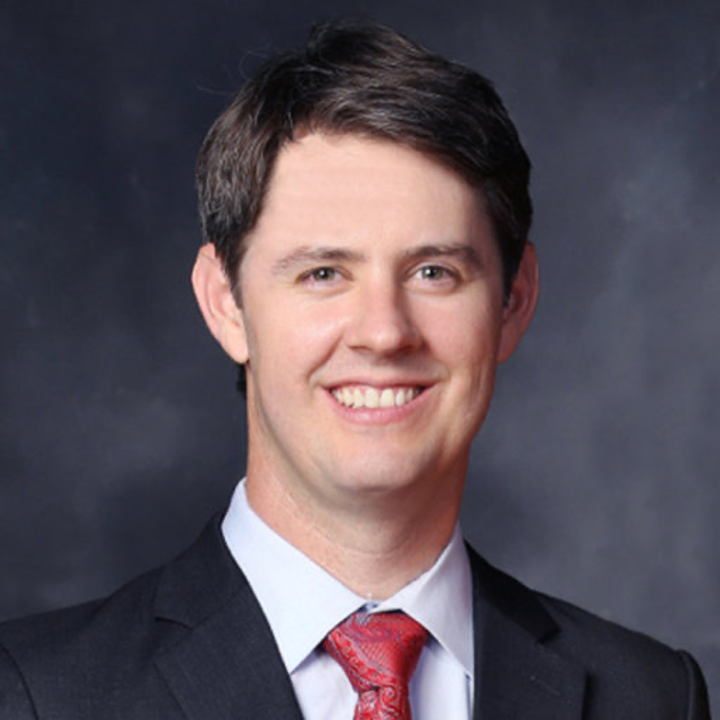
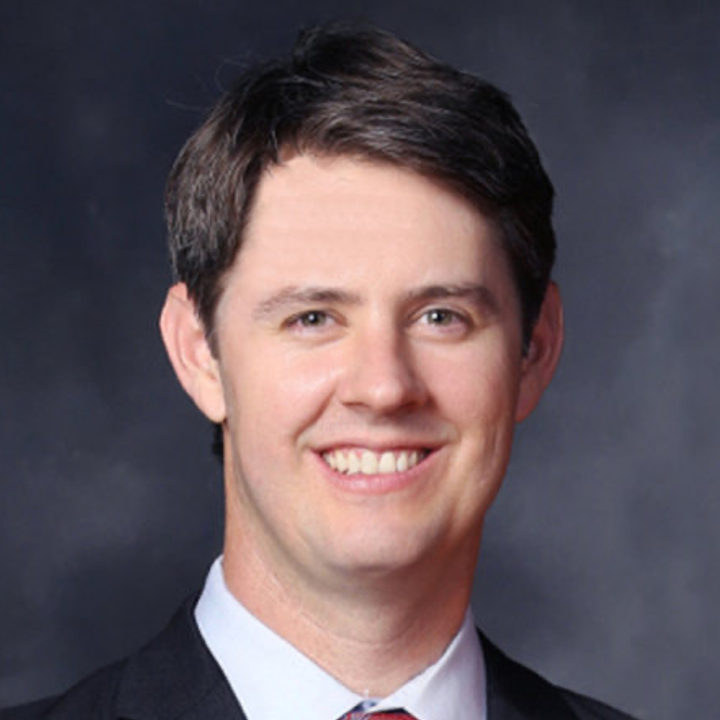
Add new member and board member, add CG draft link, archived M-BIDS

diff --git a/software.html b/software.html
@@ -470,7 +470,7 @@
                     <h4><span>Data management</span></h4>
                 </div>
 
-                <!-- MUSCLE-BIDS -->
+                <!-- MUSCLE-BIDS
                 <div class="col-lg-3 col-md-6 d-flex align-items-stretch mt-4 mt-md-0 mb-4">
                     <div class="tile">
                         <div class="tile-img">
@@ -483,21 +483,21 @@
                         </div>
         
                         <div class="tile-social">    
-                            <div class="social-icons">
+                            <div class="social-icons"> -->
                                 <!-- GitHub -->
-                                <a href="https://github.com/muscle-bids/muscle-bids"><i class="bi bi-github"></i></a>
+                                <!-- <a href="https://github.com/muscle-bids/muscle-bids"><i class="bi bi-github"></i></a> -->
                                 <!-- Jupyter notebooks -->
-                                <a href="https://github.com/muscle-bids/muscle-bids/tree/main/jupyter">
+                                <!-- <a href="https://github.com/muscle-bids/muscle-bids/tree/main/jupyter">
                                     <img src="assets/img/general/logo_jupyter.png" alt="jupyter notebooks" width="21" height="24">
-                                </a>
+                                </a> -->
                                 <!-- Demo data -->
-                                <a href="https://github.com/muscle-bids/muscle-bids/blob/main/dicom.zip"><i class="bi bi-database-fill"></i></a> 
+                                <!-- <a href="https://github.com/muscle-bids/muscle-bids/blob/main/dicom.zip"><i class="bi bi-database-fill"></i></a>  -->
                                 <!-- Documentation -->
-                                <a href="https://muscle-bids.github.io/"><i class="bi bi-window"></i></a>
+                                <!-- <a href="https://muscle-bids.github.io/"><i class="bi bi-window"></i></a>
                             </div>
                         </div> 
-                    </div>
-                </div>
+                    </div> 
+                </div> -->
 
                 <!-- ORMIR-MIDS -->
                 <div class="col-lg-3 col-md-6 d-flex align-items-stretch mt-4 mt-md-0 mb-4">
@@ -561,6 +561,12 @@
 
             </div>
 
+            Archived:
+            <ul>
+                <li>
+                <a href="https://github.com/ormir-mids/ormir-mids">Muscle BIDS</a>, the predecessor of <a href="https://github.com/ormir-mids/ormir-mids">ORMIR-MIDS</i></a>
+                </li>
+            </ul>
             <br>
             <hr>
             <br>

diff --git a/boards.html b/boards.html
@@ -241,7 +241,7 @@
                         Our role is provide directions and support for code standardization and homogenization. 
                         Our outcome include 
                         <a href="templates.html">templates for Jupyter Notebooks and GitHub readme files<a>, 
-                        <a href="guidelines.html">coding guidelines</a>, 
+                        <a href="guidelines.html">code guidelines</a>, 
                         and the package <a href="https://github.com/ormir-mids">ORMIR-MIDS</a> for data structure. We are the ravers!
                  </div>
                               
@@ -357,7 +357,7 @@
                 <!-- Empty one to leave one column space -->
 
                 
-                <div class="col-lg-2 col-md-3 d-flex align-items-stretch">
+                <div class="col-lg-2 d-flex align-items-stretch mt-4 mt-md-0 mb-4">
                     <div class="tile">
                         <div class="tile-img">
                             <img src="assets/img/people/cecilia_liberati.png" class="img-fluid" alt="">
@@ -366,6 +366,21 @@
                             <h4>
                                 <a href="https://www.linkedin.com/in/cecilia-liberati/">
                                     Cecilia Liberati
+                                </a>
+                            </h4>
+                        </div>
+                    </div>
+                </div>
+
+                <div class="col-lg-2 col-md-3 d-flex align-items-stretch mt-4 mt-md-0 mb-4">
+                    <div class="tile">
+                        <div class="tile-img">
+                            <img src="assets/img/people/giulia_borromeo.png" class="img-fluid" alt="">
+                        </div>
+                        <div class="tile-info">
+                            <h4>
+                                <a href="https://www.linkedin.com/in/giulia-borromeo-5b082333b/">
+                                    Giulia Borromeo
                                 </a>
                             </h4>
                         </div>

diff --git a/members.html b/members.html
@@ -148,6 +148,21 @@
                         </div>
                     </div>
                 </div>
+
+                <div class="col-lg-2 col-md-3 d-flex align-items-stretch mt-4 mt-md-0 mb-4">
+                    <div class="tile">
+                        <div class="tile-img">
+                            <img src="assets/img/people/alice_nilsson.png" class="img-fluid" alt="">
+                        </div>
+                        <div class="tile-info">
+                            <h4>
+                                <a href="http://alicenilsson.se/">
+                                    Alice Nilsson
+                                </a>
+                            </h4>
+                        </div>
+                    </div>
+                </div>
                 
                 <div class="col-lg-2 col-md-3 d-flex align-items-stretch mt-4 mt-md-0 mb-4">
                     <div class="tile">

diff --git a/guidelines.html b/guidelines.html
@@ -116,9 +116,13 @@
           
             <!-- Title -->
             <div class="section-title">
-              <h2>Coding guidelines</h2>
+              <h2>Code guidelines</h2>
             </div>
                 
+            <div class="section-sub-title">
+              🚧 We are working on new, more complete guidelines. You can find their draft <a href="https://www.ormir.org/code_guidelines/">here!</a> 🚧
+            </div> 
+
             <div class="section-sub-title">
               Here are our guidelines for <a href="#code">code</a>, <a href="#data">data</a>, and <a href="#publications">publications</a>
             </div> 